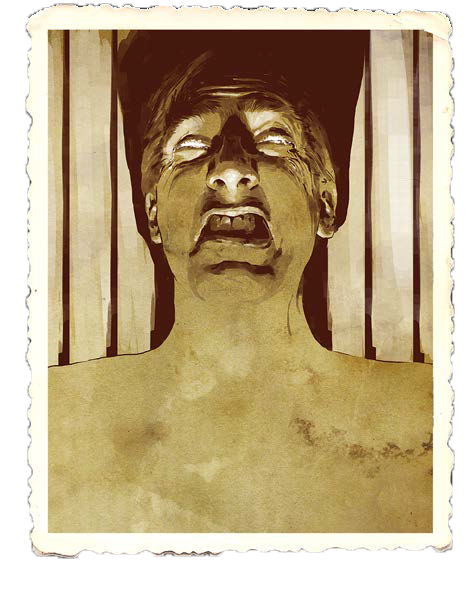
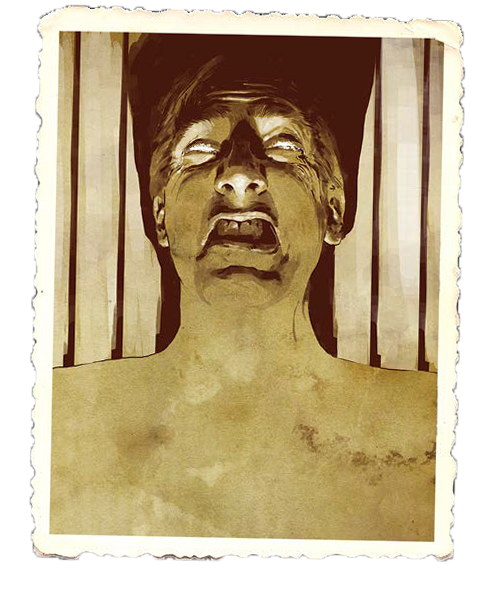
rotated images and added title

diff --git a/coc/crimson_letters/table.html b/coc/crimson_letters/table.html
@@ -3,7 +3,7 @@
 <head>
     <meta charset="UTF-8">
     <meta name="viewport" content="width=device-width, initial-scale=1.0">
-    <title>Image Viewer</title>
+    <title>🐙 Crimson Letters</title>
     <style>
         body {
             margin: 0;
@@ -40,9 +40,9 @@
         canvas.height = window.innerHeight;
 
         let images = [
-            { src: "Texturelabs_Wood_178XL.jpg", name: "texture24138970", x: 0, y: 0, width: 7952, height: 5149, opacity: 255 },
+            { src: "Texturelabs_Wood_178XL.png", name: "texture24138970", x: 0, y: 0, width: 7952, height: 5149, opacity: 255 },
 
-            { src: "arkham 5 Labels.jpg", name: "map237890", x: 30, y: 30, width: 3600, height: 2820, opacity: 100 },
+            { src: "arkham 5 Labels.png", name: "map237890", x: 30, y: 30, width: 3600, height: 2820, opacity: 100 },
 
             { src: "abner_wick.png", name: "063d", x: 3800, y: 100, width: 332, height: 425, opacity: 0 },
             { src: "cecil_hunter.png", name: "431q", x: 4200, y: 100, width: 332, height: 425, opacity: 0 },
@@ -55,11 +55,11 @@
             { src: "prof_roach.png", name: "130k", x: 5000, y: 600, width: 332, height: 425, opacity: 0 },
             { src: "tony_flinders.png", name: "784m", x: 5400, y: 600, width: 332, height: 425, opacity: 0 },
 
-            { src: "office - business card wick.jpg", name: "784m", x: 3940, y: 1161, width: 450, height: 250, opacity: 0},
+            { src: "office - business card wick.png", name: "784m", x: 3940, y: 1161, width: 450, height: 250, opacity: 0},
             { src: "office - love letter lucy.png", name: "090l", x: 3809, y: 1450, width: 1100, height: 600, opacity: 0 },
 
             { src: "home - bill atlantic city.png", name: "783e", x: 6124, y: 45, width: 500, height: 1000, opacity: 0 },
-            { src: "home - cecil hunter commit.jpg", name: "490b", x: 6781, y: 45, width: 1000, height: 1600, opacity: 0 },
+            { src: "home - cecil hunter commit.png", name: "490b", x: 6781, y: 45, width: 1000, height: 1600, opacity: 0 },
             { src: "home - telegram wick.png", name: "202d", x: 4933, y: 1117, width: 1000, height: 800, opacity: 0 },
             { src: "house - burned diary.png", name: "647w", x: 6779, y: 1667, width: 900, height: 1100, opacity: 0 },
             { src: "house - locksmith receipt.png", name: "183x", x: 5945, y: 1050, width: 800, height: 800, opacity: 0 },
@@ -67,7 +67,7 @@
             { src: "roadhouse.png", name: "497j", x: 4533, y: 1011, width: 200, height: 400, opacity: 0 },
             { src: "wick dinner.png", name: "801v", x: 3778, y: 2111, width: 1200, height: 1000, opacity: 0 },
 
-            { src: "Player Map 1 Lieters Cottage.jpg", name: "879l", x: 6500, y: 2911, width: 1400, height: 1000, opacity: 0 },
+            { src: "Player Map 1 Lieters Cottage.png", name: "879l", x: 6500, y: 2911, width: 1400, height: 1000, opacity: 0 },
         ];
         let loadedImages = [];
         let scale = 1;

diff --git a/coc/crimson_letters/rotate.py b/coc/crimson_letters/rotate.py
@@ -1,0 +1,26 @@
+import os
+from PIL import Image
+import random
+
+# Get all image files in current directory
+image_extensions = ('.png')
+image_files = [f for f in os.listdir('.') if f.lower().endswith(image_extensions)]
+
+for image_file in image_files:
+    print(f"Processing: {image_file}")
+    input_text = input(f"Press Enter to rotate {image_file} randomly, or any other key to skip: ")
+    
+    if input_text == "":
+        # Open and rotate image
+        with Image.open(image_file) as img:
+            # Random rotation between -2 and 2 degrees
+            rotation = random.uniform(-2, 2)
+            rotated = img.rotate(rotation, expand=True, resample=Image.BICUBIC, fillcolor=None)
+            
+            # Save with '_rotated' suffix
+            filename, ext = os.path.splitext(image_file)
+            new_filename = f"{filename}{ext}"
+            rotated.save(new_filename)
+            print(f"Saved as: {new_filename}")
+    else:
+        print("Skipped")
